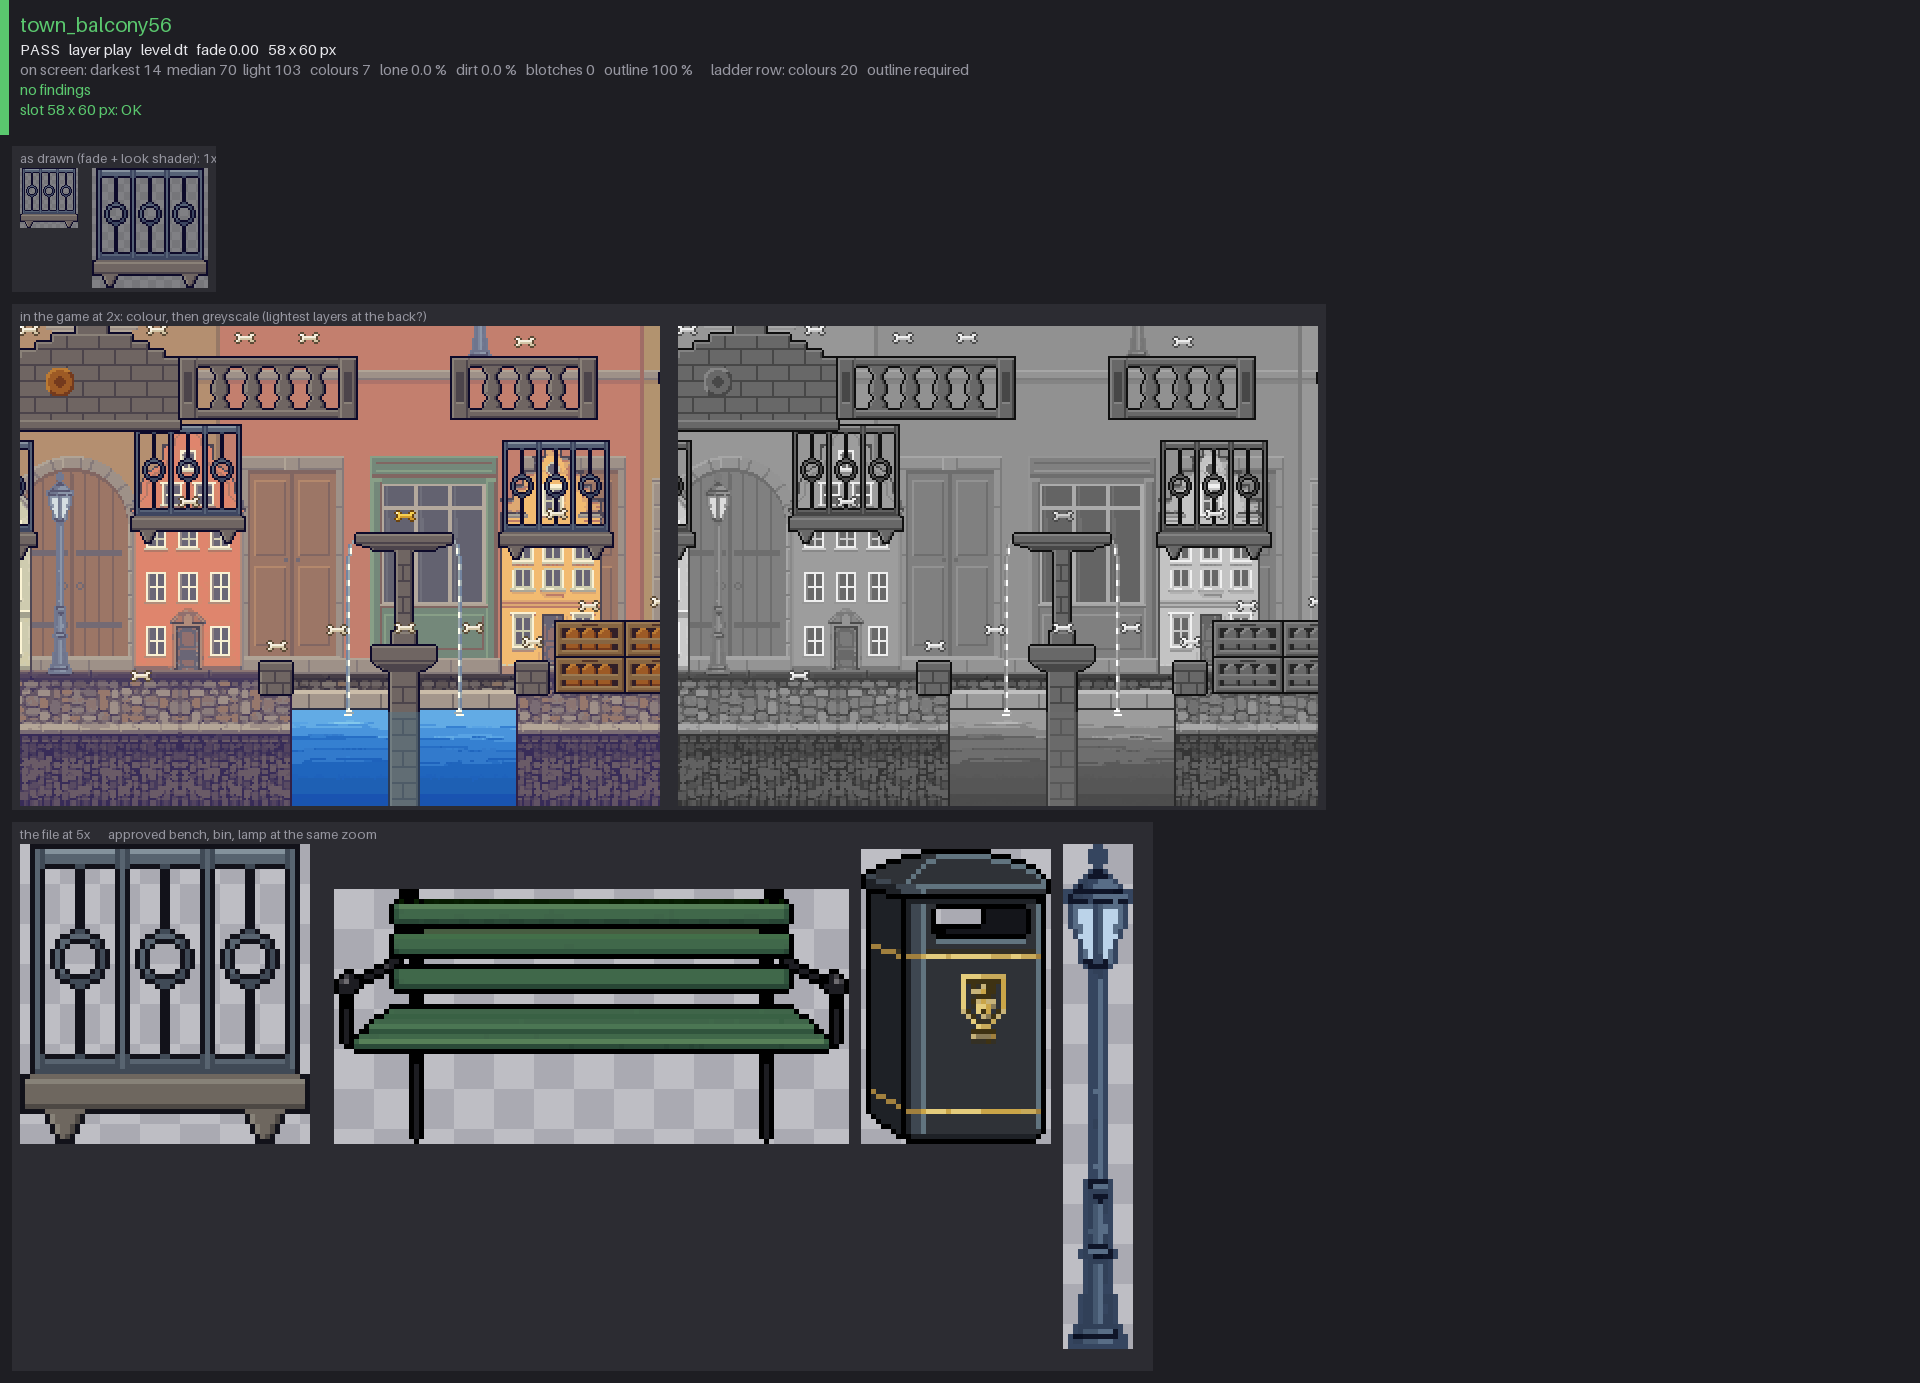
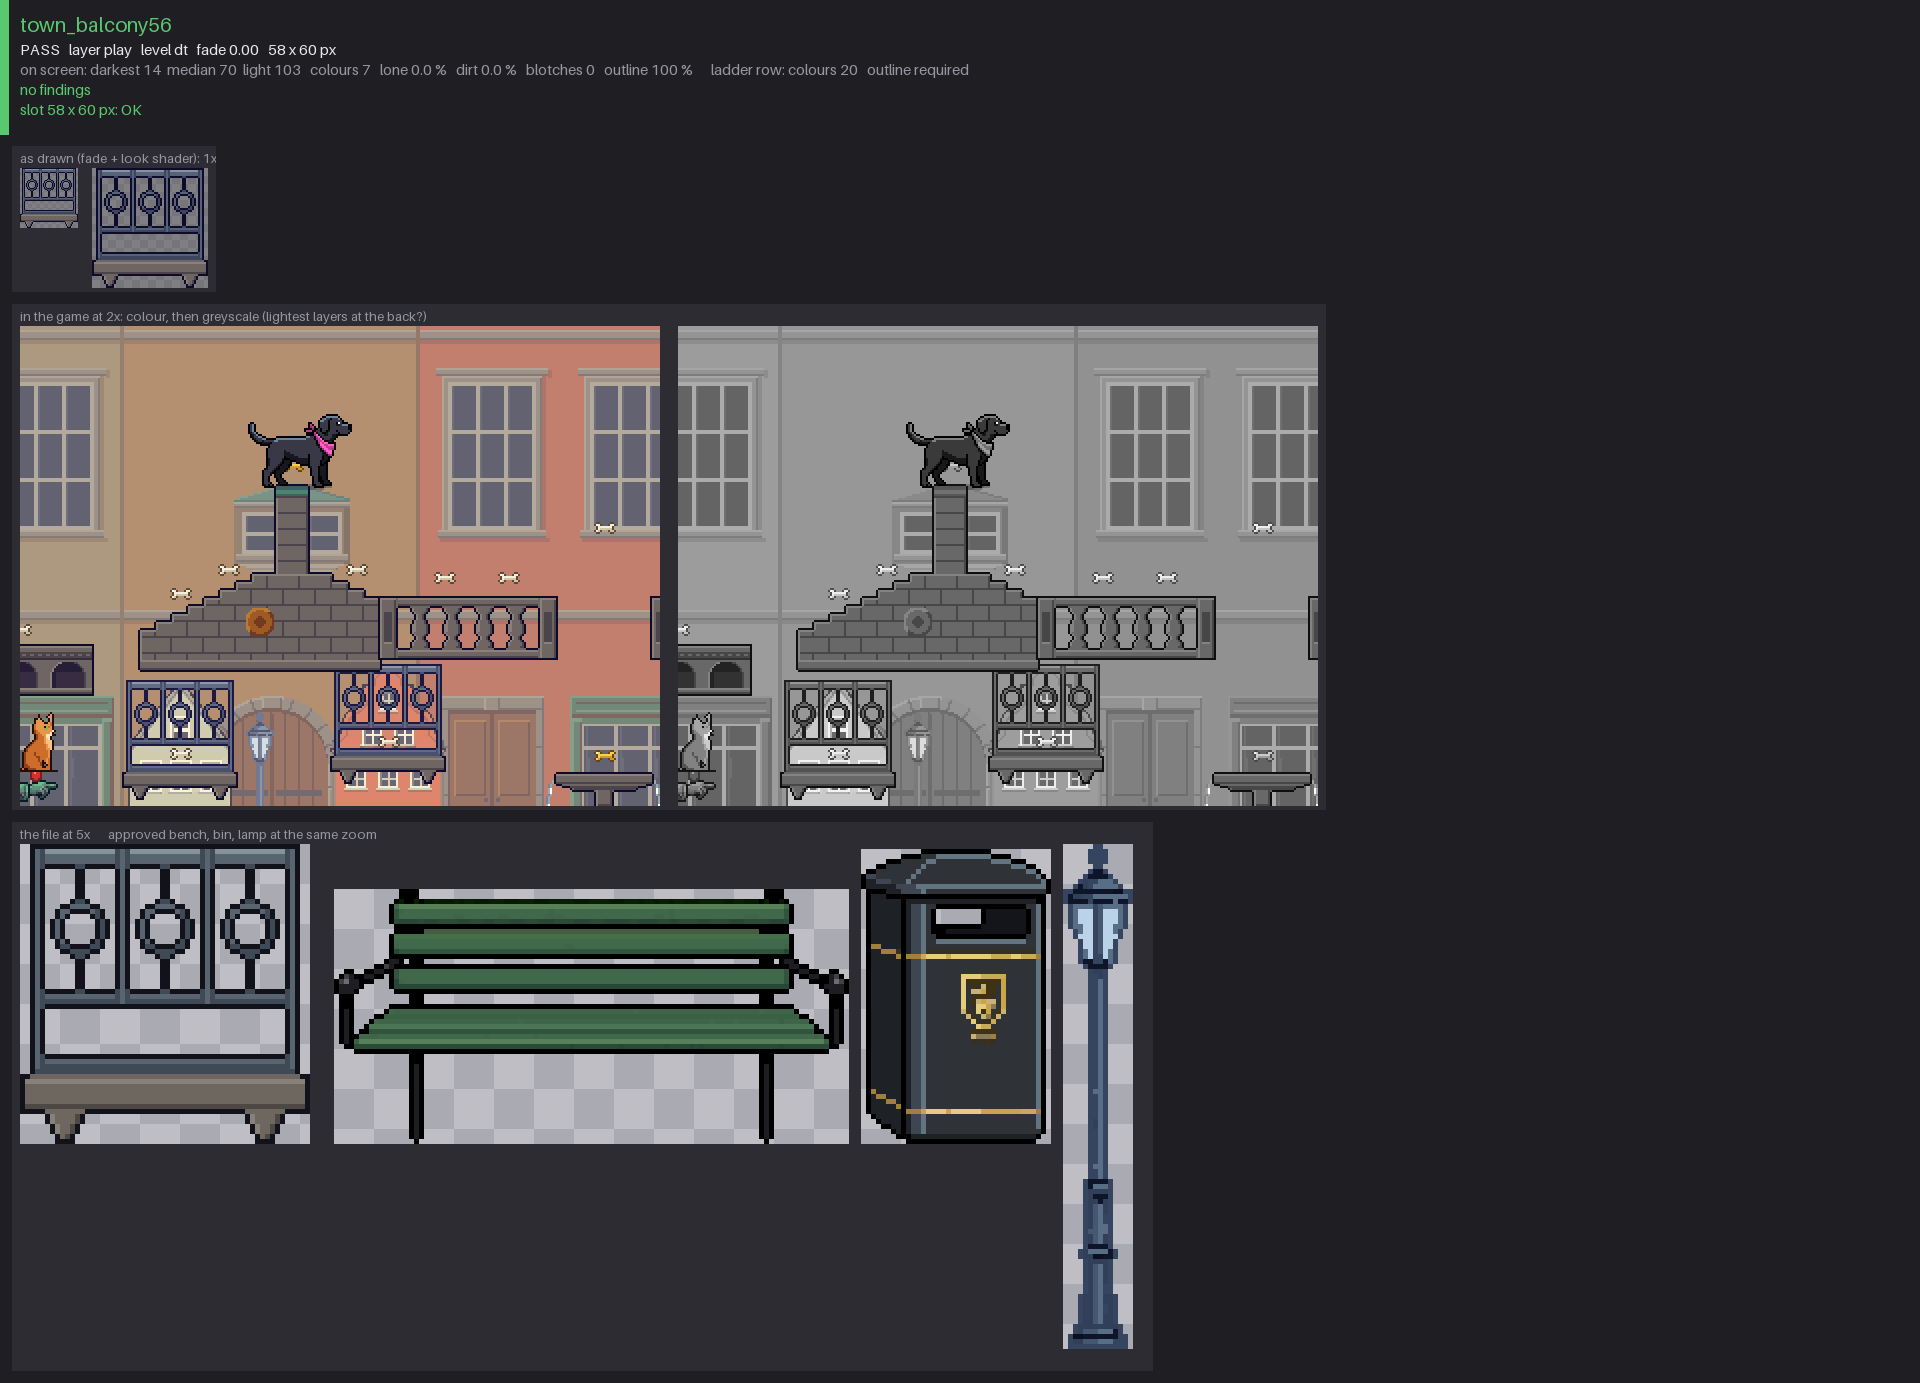
Downtown balconies fix round 2: railing in the back pass, a clear band for the bones
The railing rows are drawn behind everything on Pepper's line; the middle posts and ring bars
stop at a mid rail, so no upright crosses a bone. No bone or box moved.

Claude-Session: https://claude.ai/code/session_01XkeHChtsnoGGeU7Sn4FRyE

Changed region(s): [[0.0, 0.2176, 0.6875, 0.5907], [0.0, 0.6529, 0.1562, 0.7773], [0.0, 0.1244, 0.125, 0.1866]]

diff --git a/tools/build_dt_details.py b/tools/build_dt_details.py
@@ -113,14 +113,21 @@ def balcony(bw):
     P = (span - 12) // 3
     assert 3 * P + 12 == span, bw
     posts = [xa + i * (P + 3) for i in range(4)]
+    # (review round 2: the bones float in the railing's lower part, rows 33-43 at 1x with their bob, so nothing upright
+    # crosses them there): the middle posts and the rings' bars stop at a mid rail (rows 29-32); below it only the
+    # two end posts run down to the bottom rail (rows 42-45)
+    mid = 29
     cv.rect(xa, 0, xa + span - 1, 4, "s3"); cv.rect(xa + 1, 1, xa + span - 2, 1, "s1"); cv.rect(xa + 1, 2, xa + span - 2, 3, "s2")   # handrail
+    cv.rect(xa, mid, xa + span - 1, mid + 3, "s3"); cv.rect(xa + 1, mid + 1, xa + span - 2, mid + 1, "s2")   # mid rail
     cv.rect(xa, s - 4, xa + span - 1, s - 1, "s3"); cv.rect(xa + 1, s - 3, xa + span - 2, s - 3, "s2")   # bottom rail
-    for x in posts: cv.rect(x, 0, x + 2, s - 1, "s3"); cv.rect(x + 1, 1, x + 1, s - 2, "s2")
-    ry = (5 + s - 5) // 2 - 6                                             # the ring centred between the rails
+    for i, x in enumerate(posts):
+        y1 = s - 1 if i in (0, len(posts) - 1) else mid + 3
+        cv.rect(x, 0, x + 2, y1, "s3"); cv.rect(x + 1, 1, x + 1, y1 - 1, "s2")
+    ry = 5 + (mid - 5 - 12) // 2                                          # the ring centred between handrail and mid rail
     for x in posts[:-1]:
         cx = x + 3 + P // 2                                               # the panel's middle (2 columns for an even panel)
         cv.keyed(RING12, {"a": "s2", "b": "s3"}, cx - 6, ry)
-        cv.rect(cx - 1, 5, cx, ry, "s3"); cv.rect(cx - 1, ry + 11, cx, s - 5, "s3")   # held above and below
+        cv.rect(cx - 1, 5, cx, ry, "s3"); cv.rect(cx - 1, ry + 11, cx, mid, "s3")   # held above and below
     cv.rect(0, s, W - 1, s + SLAB - 1, "g2"); cv.rect(1, s + 1, W - 2, s + 1, "g1"); cv.rect(1, s + SLAB - 2, W - 2, s + SLAB - 2, "g3")
     for cx in (5, W - 13):                                                # two corbels, 8 wide
         cv.keyed(CORBEL, STONE, cx, s + SLAB)

diff --git a/CHANGELOG.md b/CHANGELOG.md
@@ -9,6 +9,7 @@ Each delivered build is a git tag. `git checkout v0.1` goes back to any of them.
 - Fountain triage: tier, bowl and rim were lighter than the walls behind them and the bowl and rim speckled; redrawn in coursed granite with the same silhouettes. The jets (single translucent drops) replaced by town_jet.
 - asset_qa and measure_layers list the in-game names (SLOTS, FRAMES; the spire at the shore's 0.70). Cards: docs/review/06nov/dt_roofs/.
 - Fix round 1 (review 11 of 15 PASS): both galleries on a 16 px pitch with equal 6 px gaps at the ends; the balconies an open railing (handrail, bottom rail, posts, one iron ring per panel; 60 rows); the coil a grey steel spring, closed in every frame. All 15 pieces in the pipeline (family dt_roofs), the 10 unchanged PASS pieces marked review.
+- Fix round 2: the balconies' railings drawn in the back pass (bones, Pepper and Mia in front); the middle posts stop at a mid rail so no upright crosses a bone.
 
 ## Branch `art/rw-water-05nov`: River Walk water family (5 Nov, SpriteCook 24 credits)
 - 5 Nov (art/rw-street-05nov): River Walk screen 12, the gable's door bay is now built as its own narrow front (tools/build_rw_gable.py build_bay(), corner lesene) instead of a pixel crop that cut a wall anchor and the next window's sills; brings in night/25oct-rw-street and night/30oct-gable-b (option B). 0 credits.

diff --git a/docs/review/06nov/dt_roofs/README.md b/docs/review/06nov/dt_roofs/README.md
@@ -47,3 +47,11 @@ its top row).
 Pipeline: all 15 specs in `art/gen/jobs/` (family dt_roofs, tier C), spec, built and ingame done; review done for the 10
 unchanged PASS pieces (the reviewer's sections split into `art/gen/reviews/NAME.md`, text unchanged, one item per line).
 Waiting for review: gallery88, gallery72, balcony56, balcony64, spring.
+
+## Fix round 2 (review round 2: galleries and spring PASS; balconies FAIL on item 9, bones caged)
+
+The railing (rows 0-45) is drawn in the back pass (`Sc.drawBalconyRails`, stage.lua after the back props), so the
+bones, Pepper and Mia are always in front of it; the slab and corbels stay on her line (drawBalcony). The middle
+posts and the rings' bars stop at a mid rail (rows 29-32); below it only the end posts run to the bottom rail, so the
+bones (rows 33-43 at 1x with their bob) float in a clear band at every balcony (x 1580, 1684, 1868, 2436, 2460, 1360).
+No bone or box moved. Frames: `frames_r2/` (y 120, x 1440, 1500, 1640, 2380, 1180, colour and grey).
